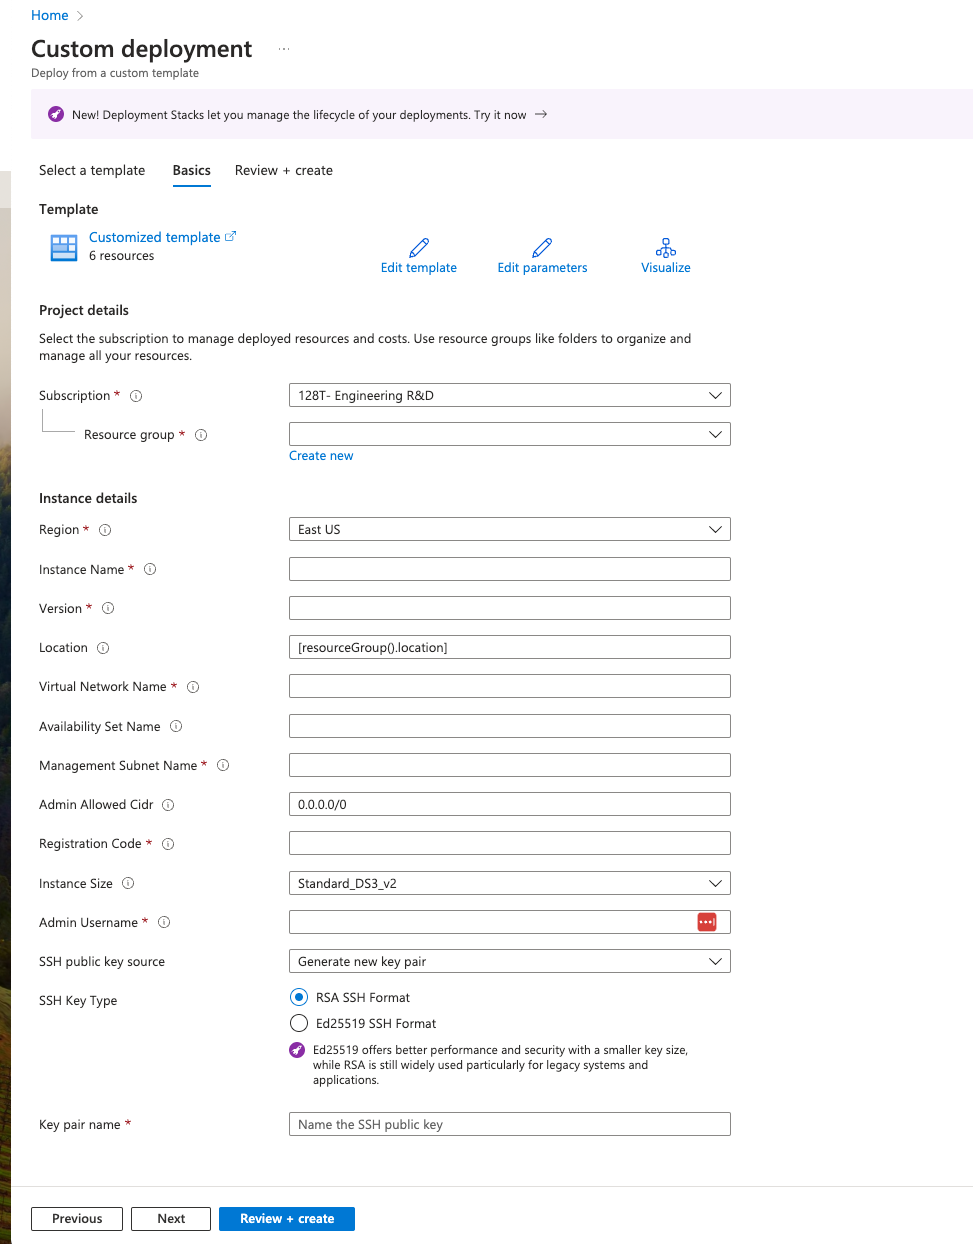
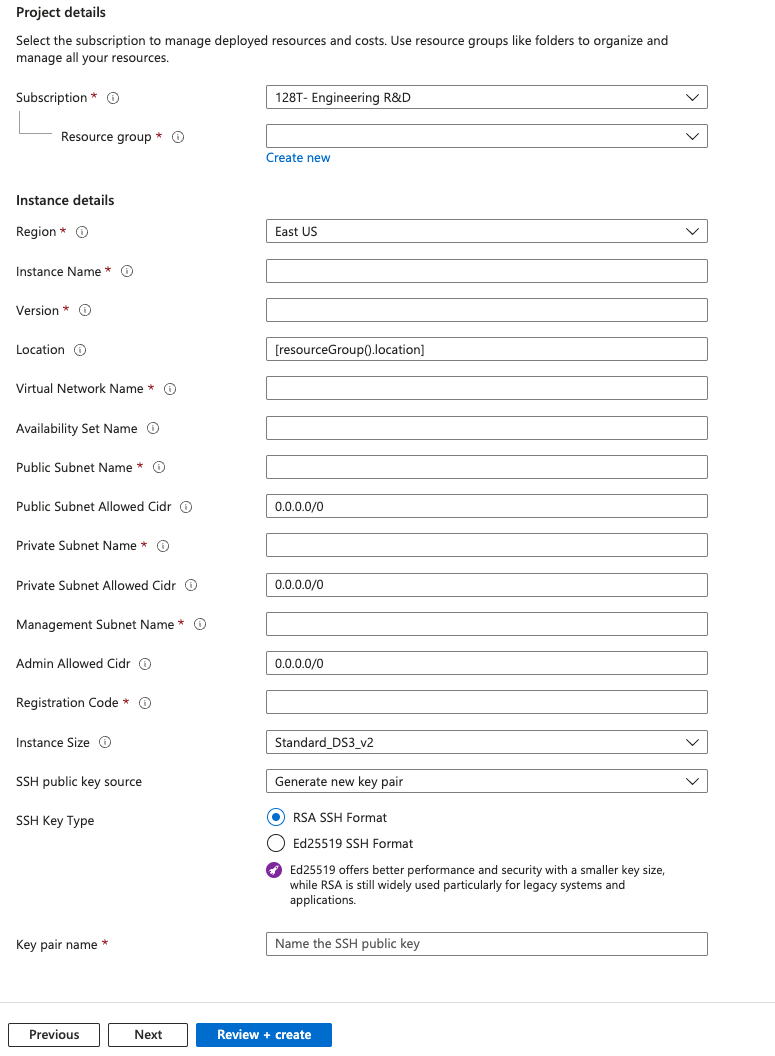
update byol docs for ol7

diff --git a/docs/intro_installation_byol_azure_mist.md b/docs/intro_installation_byol_azure_mist.md
@@ -81,7 +81,7 @@ Answer the following questions to launch the deployment of an SSR. For additiona
   Provide the [registration code](wan_onboarding_whitebox.md#manual-adoption) for the Mist organization.
 * Who is going to be the administrator?
 
-6. Provide a username (for example: `t128`) and the content of your public SSH key in the `Admin Username` and `Admin Public Key Data` fields respectively.
+6. Provide the content of your public SSH key in the `Admin Public Key Data` field.
 
 7. Agree to the terms of use and conditions of the deployment. 
 
@@ -139,7 +139,7 @@ If a user does not supply the onboarding configuration before launching the inst
 
 1. Log into the instance using the admin credentials provided when launching.
 2. Run `/usr/libexec/hardwareBootstrapper128t config-generator`
-3. Follow the prompts to generate and apply the onboarding configuration
+3. Follow the prompts to generate and apply the onboarding configuration.
 
 ### Mist-Managed Setup
 
@@ -248,7 +248,6 @@ A description of the parameters of the template are listed in the following tabl
 | Registration Code   | The Mist registration used for adoption of the instance to a Mist organization. |
 | Version | SSR software version installed on the instance. | 
 | Instance size        | Select the size of the VM in the field Instance Size. |
-| Admin Username       | Fill out the field Admin Username with the desired username to login to the VM (Linux) via SSH. |
 | Admin Public Key Data| Paste in the field Admin Public Key Data the SSH public key to be used to authenticate with the VM (Linux) instance via SSH. The key needs to be at least 2048-bit and in ssh-rsa format. Please find the following an example of a valid key next (To reduce the length of the key in this example multiple character have been replaced by three dots): ```ssh-rsa AAAAB3NzaC1yc2EAAAADAQABAAACAQDHwB1Qe1KndGqKuT3F...GumfdHfdasy8N0kncMtp2wtkqoLsRWdJ4/WKaZBOrPd4Q== admin@Admin-MacBook-Pro.local```. For more information about creating ssh keys, see [Create SSH keys on Linux and Mac for Linux VMs in Azure](https://docs.microsoft.com/en-us/azure/virtual-machines/linux/mac-create-ssh-keys). |
 
 ### Azure Portal
@@ -274,7 +273,7 @@ The information listed in the Outputs tab is the following:
 * SSH command to login to the Linux VM via the management interface.
 
 :::important
-When logging to the Linux instance via SSH make use of the username specified in the **Admin Username** field and the corresponding private key specified in the **Admin Public Key Data** field.
+When logging to the Linux instance via SSH use the default username of `t128` and the private key specified in the **Admin Public Key Data** field.
 :::
 
 ### Azure CLI or PowerShell
@@ -299,6 +298,9 @@ Paste the following JSON content. Please adjust the values to your specific envi
     },
     "routerName": {
       "value": "<name to assign to the router. Optional>"
+    },
+    "version": {
+      "value": "<ssr version to be installed>"
     },
     "nodeName": {
       "value": "<name to assign to the node of the router. Optional>"
@@ -339,9 +341,6 @@ Paste the following JSON content. Please adjust the values to your specific envi
     "instanceSize": {
       "value": "Standard_DS3_v2"
     },
-    "adminUsername": {
-      "value": "<username>"
-    },
     "adminPublicKeyData": {
       "value": "<content of ssh-rsa key>"
     }
@@ -369,5 +368,5 @@ New-AzResourceGroupDeployment -ResourceGroupName <your-resource-group-name> `
 ```
 
 :::important
-When logging to the Linux instance via SSH make use of the username specified in the **Admin Username** field and the corresponding private key specified in the **Admin Public Key Data** field.
+When logging to the Linux instance via SSH use the default username of `t128` and the private key specified in the **Admin Public Key Data** field.
 :::

diff --git a/docs/intro_installation_quickstart_byol_mist_aws.md b/docs/intro_installation_quickstart_byol_mist_aws.md
@@ -116,16 +116,16 @@ write_files:
 ### Manual Onboarding
 If a user does not supply the onboarding configuration before launching the instance, the onboarding steps can be manually executed.
 
-1. Log into the instance using the admin credentials provided when launching.
+1. Log into the instance using the default AWS username `ec2-user` and the key pair provided when launching.
 2. Run `/usr/libexec/hardwareBootstrapper128t config-generator`
-3. Follow the prompts to generate and apply the onboarding configuration
+3. Follow the prompts to generate and apply the onboarding configuration.
 
 
 ### Mist-Managed Setup
 
 Once the EC2 instance is launched with the correct registration-code, the device will self-onboard to appropriate Mist organization. The device is visible as Unassigned in the Mist organization once onboarding is complete. At this point, the SSR install process will begin. This process can take up to 15 minutes to complete.
 
-If the device does not show up in the Mist organization or the desired SSR version was not installed after 15 minutes, SSH into the instance.
+If the device does not show up in the Mist organization or the desired SSR version was not installed after 15 minutes, SSH into the instance. If the instance was created using the BYOL template, the default username will be `t128`. If not, the username will be `ec2-user`.
 
 - Try to log into the pcli, run `su admin` and then `show mist`.
 
